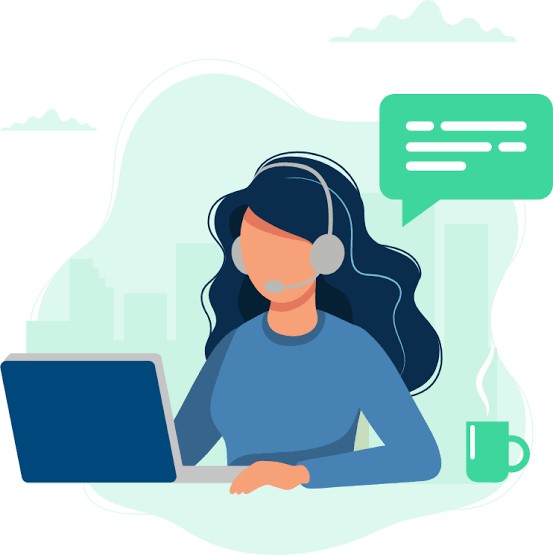
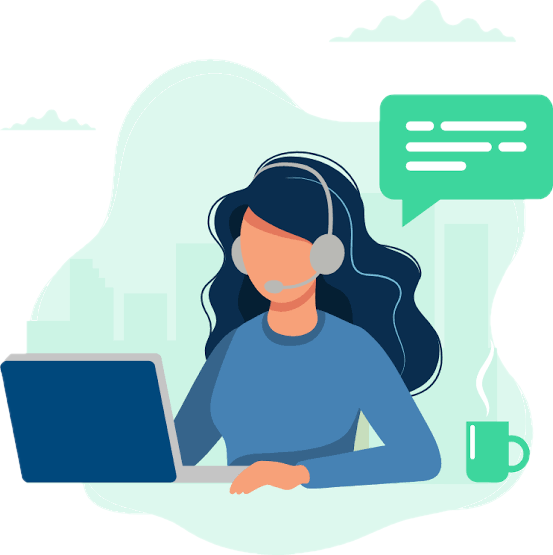
fix: transparencia en imagenes

diff --git a/pages/catalogo.html b/pages/catalogo.html
@@ -25,12 +25,12 @@
                 <ul>
                     <li>Gibson</li>
                     <figure>
-                        <img src="../imgs/gibson.jpeg" alt="Foto de Gibson Les Paul." width="400" height="400">
+                        <img src="../imgs/gibson.png" alt="Foto de Gibson Les Paul." width="400" height="400">
                         <figcaption>Tenemos modelos como la mítica Les Paul o la legendaria SG.</figcaption>
                     </figure>
                     <li>Fender</li>
                     <figure>
-                        <img src="../imgs/fender.jpeg" alt="Foto de Fender Stratocaster." width="400" height="400">
+                        <img src="../imgs/fender.png" alt="Foto de Fender Stratocaster." width="400" height="400">
                         <figcaption>Para los rockeros todo tipo de Stratocasters y Telecasters.</figcaption>
                     </figure>
                 </ul>
@@ -40,7 +40,7 @@
                 <ul>
                     <li>Clásica</li>
                     <figure>
-                        <img src="../imgs/criolla.jpg" alt="Foto de Guitarra Clásica." width="400" height="400">
+                        <img src="../imgs/criolla.png" alt="Foto de Guitarra Clásica." width="400" height="400">
                         <figcaption>Tambien poseemos guitarras con cuerdas de nylon.</figcaption>
                     </figure>
                 </ul>

diff --git a/pages/accesorios.html b/pages/accesorios.html
@@ -25,17 +25,17 @@
                 <ul>
                     <li>Cables</li>
                     <figure>
-                        <img src="../imgs/cables.jpeg" alt="Foto de un cable de guitarra." width="400" height="400">
+                        <img src="../imgs/cables.png" alt="Foto de un cable de guitarra." width="400" height="400">
                         <figcaption>Para conectar tu instrumento con tu amplificador.</figcaption>
                     </figure>
                     <li>Pedales</li>
                     <figure>
-                        <img src="../imgs/pedal.jpeg" alt="Foto de un pedal de distorción." width="400" height="400">
+                        <img src="../imgs/pedal.png" alt="Foto de un pedal de distorción." width="400" height="400">
                         <figcaption>Para darle más matices a tu sonido.</figcaption>
                     </figure>
                     <li>Correas</li>
                     <figure>
-                        <img src="../imgs/correa.jpeg" alt="Foto de una correa para guitarra." width="400" height="400">
+                        <img src="../imgs/correa.png" alt="Foto de una correa para guitarra." width="400" height="400">
                         <figcaption>Para aquellos que desean tocar parados.</figcaption>
                     </figure>
                 </ul>

diff --git a/pages/faq.html b/pages/faq.html
@@ -33,7 +33,7 @@
                     </li>
                 </ul>
                 <figure>
-                    <img src="../imgs/faq.jpeg" alt="Imagen de FAQs." width="400" height="400">
+                    <img src="../imgs/faq.png" alt="Imagen de FAQs." width="400" height="400">
                     <figcaption>Si hay alguna duda que no pudimos responder en esta página, no dudes en preguntarnos por nuestros medios habituales.</figcaption>
                 </figure>
             </section>

diff --git a/styles/styles.css b/styles/styles.css
@@ -1,7 +1,7 @@
 @import url('https://fonts.googleapis.com/css2?family=DynaPuff:wght@400..700&family=Ultra&display=swap');
 
 :root{
-    --color-fondo: #f5f56ee0;
+    --color-fondo: hsla(60, 87%, 70%, 0.878);
     --color-secundario: #f5c66ee0;
     --color-acento: #6edaf5b9;
 }
